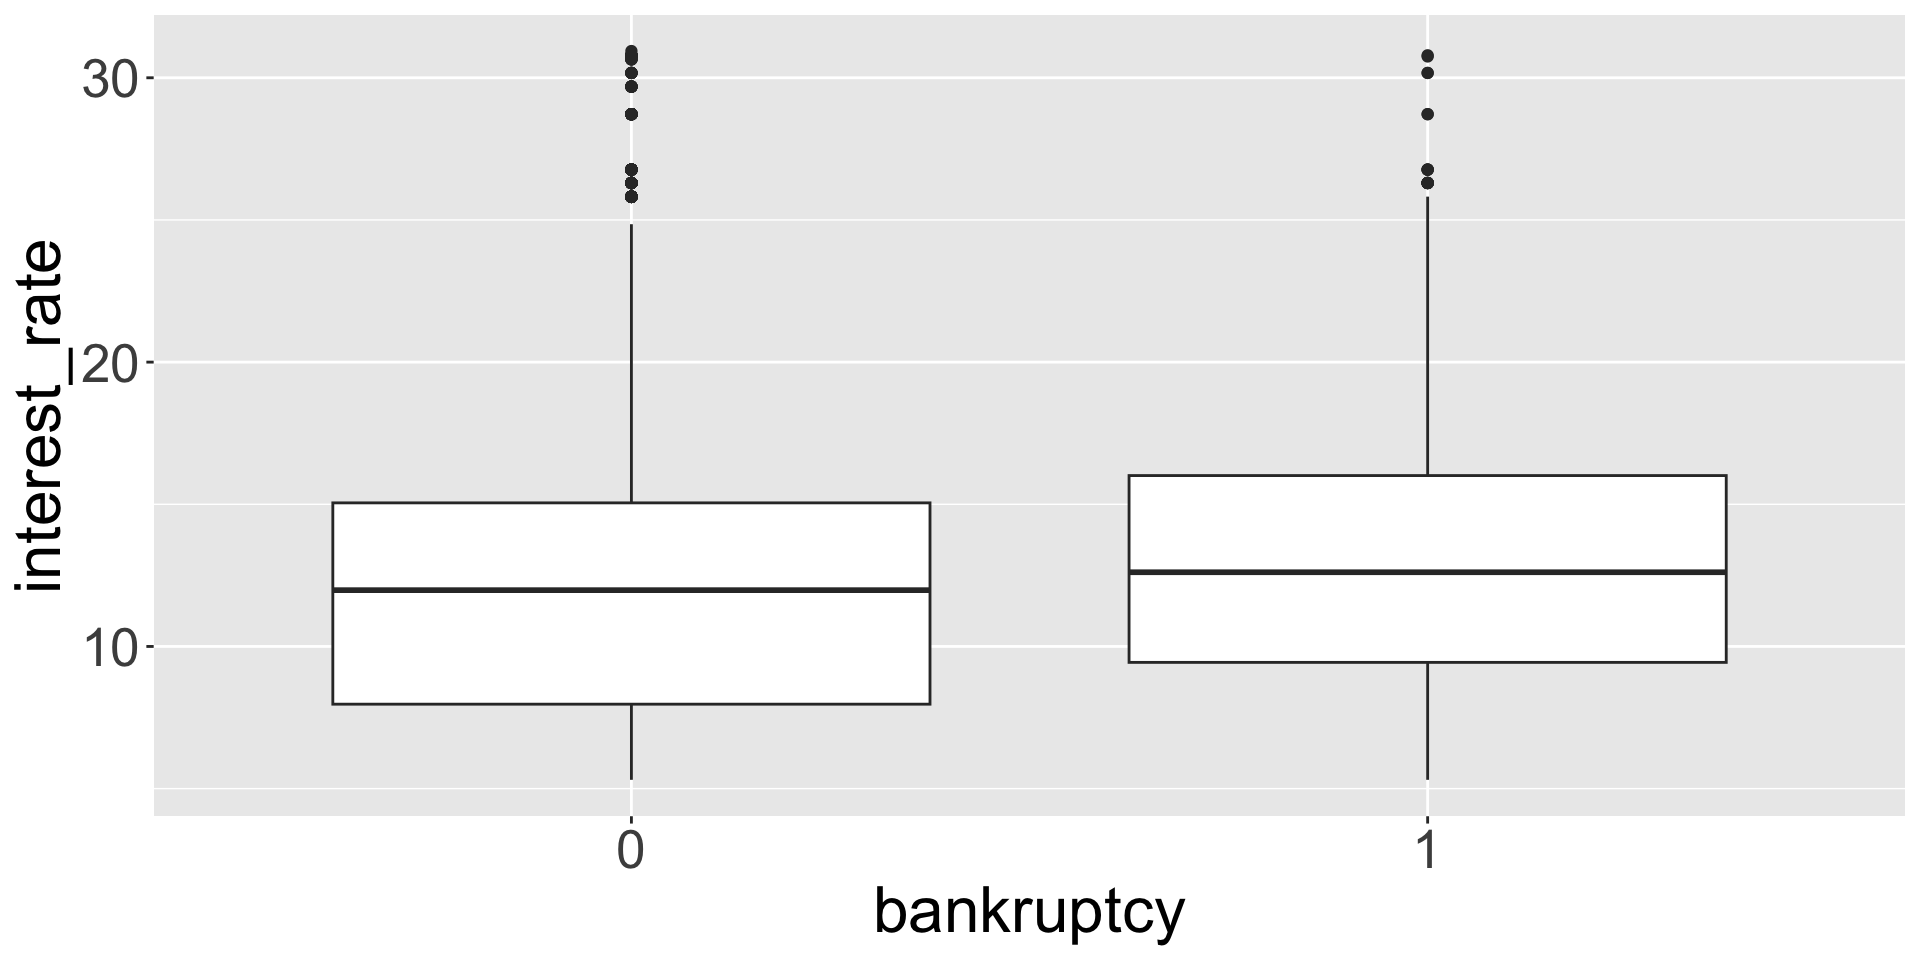
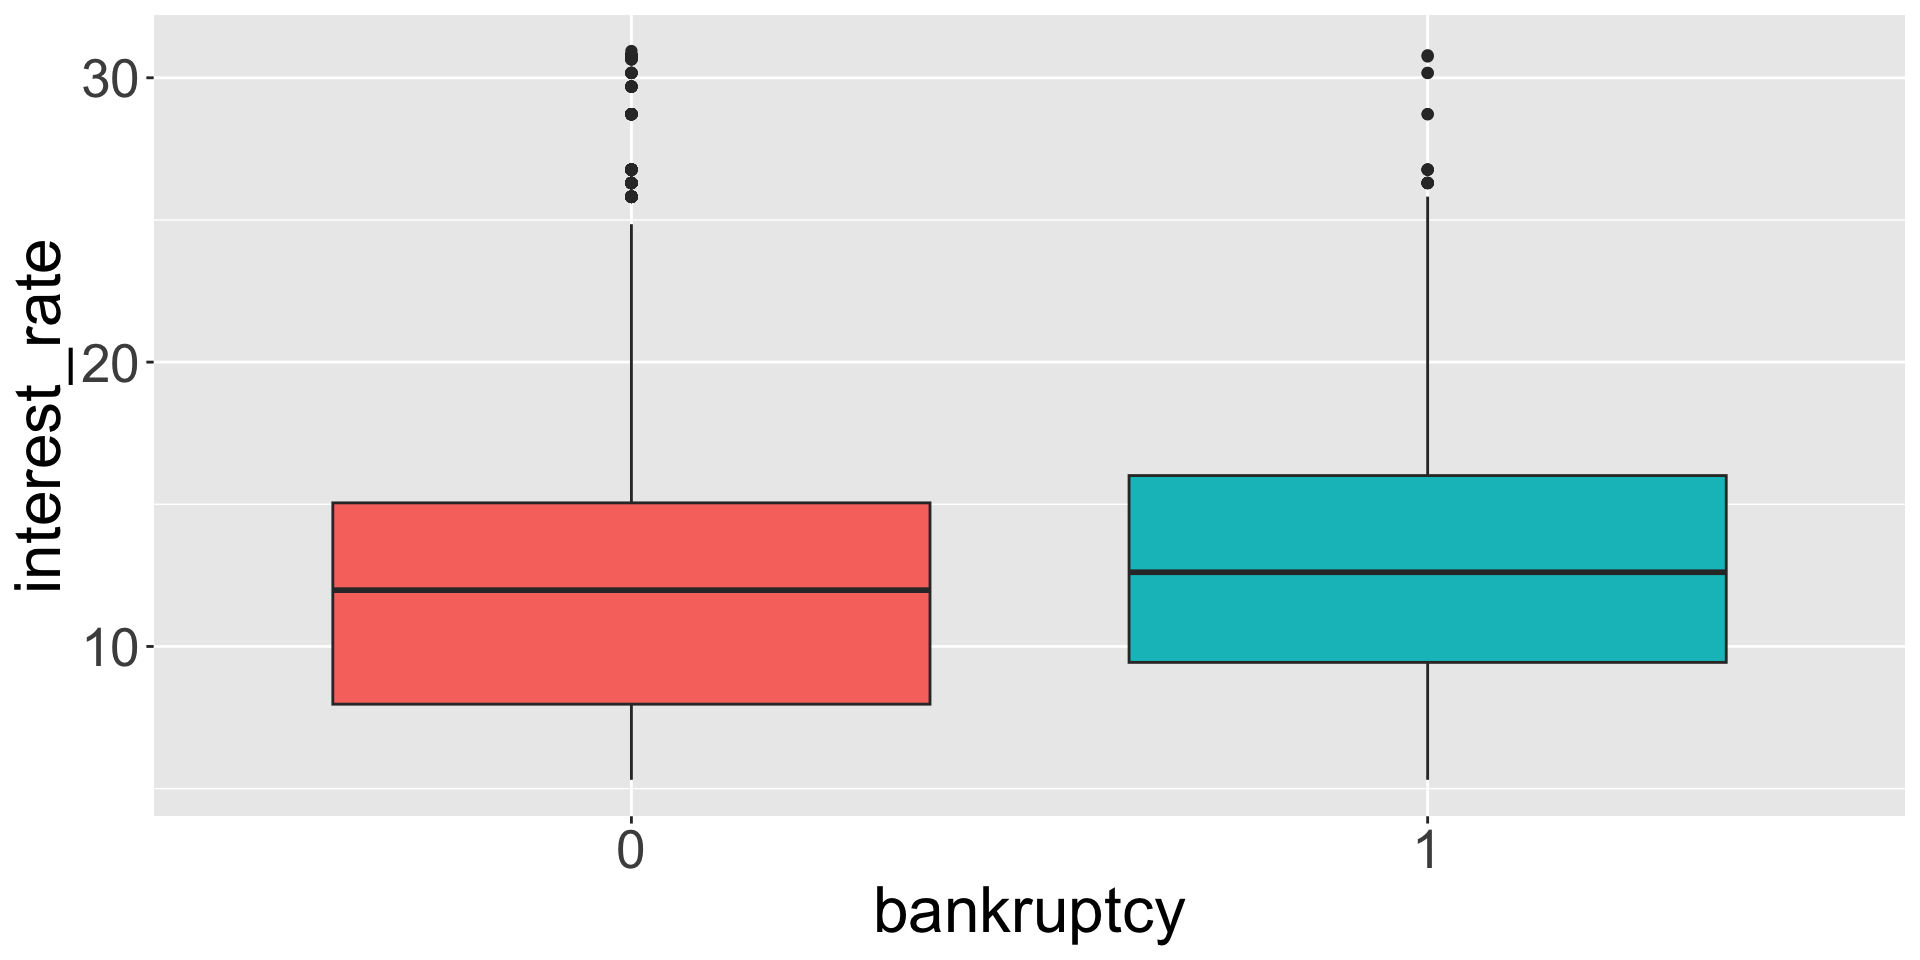
Add files via upload

Changed region(s): [[0.1562, 0.5, 0.5, 0.75], [0.5625, 0.5, 0.9062, 0.6875]]

diff --git a/teaching/STA35B/Lecture/lec12.html b/teaching/STA35B/Lecture/lec12.html
@@ -511,7 +511,11 @@ Figure&nbsp;1: A scatterplot showing head length against total length for 104 br
 <h2>Linear model</h2>
 <p>A <strong>linear model</strong> is a general framework that describes a linear relationship between a dependent variable and one or more independent variables.</p>
 <ul>
-<li>In statistics, usually call them the <strong>response</strong> variable and the <strong>predictor</strong> variable(s)</li>
+<li>In statistics, usually call them:
+<ul>
+<li>dependent variable <span class="math inline">\(\rightarrow\)</span> <strong>response</strong> variable</li>
+<li>independent variable(s) <span class="math inline">\(\rightarrow\)</span> <strong>predictor</strong> variable(s)</li>
+</ul></li>
 <li>For this slide deck, assume just one predictor variable</li>
 </ul>
 </section>
@@ -808,16 +812,17 @@ Figure&nbsp;2: Three datasets where a linear model may be useful even if the dat
 <ul>
 <li>Before we introduce <strong>correlation</strong>, let’s recall some basic summary statistics:</li>
 </ul>
-<p>Suppose we have a set of values <span class="math inline">\(a_1,a_2,\ldots,a_n\)</span> whose distribution we want to summarize using a few statistics.</p>
+<p>Suppose we want to summarize a set of values <span class="math inline">\(a_1,a_2,\ldots,a_n\)</span>.</p>
+<!-- whose distribution we want to summarize using a few statistics.  -->
 <!-- To quantify a "representative value" of a set of values $a_1,a_2,\ldots,a_n$ -->
 <div class="columns">
-<div class="column" style="width:45%;">
-<p>We can quantify a “representative value” using the <strong>sample mean</strong> <code>mean()</code>: <span class="math display">\[\bar{a} =  \frac{1}{n} \sum_{i=1}^n a_i.\]</span></p>
-</div><div class="column" style="width:55%;">
+<div class="column" style="width:50%;">
+<p>We can quantify a “representative value” using <strong>sample mean</strong> <code>mean()</code>: <span class="math display">\[\bar{a} =  \frac{1}{n} \sum_{i=1}^n a_i.\]</span></p>
+</div><div class="column" style="width:50%;">
 <p>We can quantify the “spread” using</p>
 <ul>
-<li>the <strong>sample variance</strong> <code>var()</code>: <span class="math display">\[s_a^2 =  \frac{1}{n-1} \sum_{i=1}^n (a_i - \bar{a})^2\]</span></li>
-<li>or the <strong>sample standard deviation</strong> <code>sd()</code>: <span class="math display">\[s_a = \sqrt{s_a^2}\]</span></li>
+<li><strong>sample variance</strong> <code>var()</code>: <span class="math display">\[s_a^2 =  \frac{1}{n-1} \sum_{i=1}^n (a_i - \bar{a})^2\]</span></li>
+<li>or <strong>sample standard deviation</strong> <code>sd()</code>: <span class="math display">\[s_a = \sqrt{s_a^2}\]</span></li>
 </ul>
 <!-- - $s_a$ has the same units as the values and the sample mean -->
 </div></div>
@@ -877,33 +882,49 @@ Figure&nbsp;2: Three datasets where a linear model may be useful even if the dat
 <ul>
 <li>Turns out to be equivalent to the squared value of the correlation</li>
 </ul>
-<p>Interpretation in <code>possum</code> example: About <span class="math inline">\(R^2 = 0.48\)</span> or <span class="math inline">\(48\%\)</span> of the variation in <code>head_l</code> is explained by the linear model.</p>
+<p>Interpretation for <code>possum</code>: <span class="math inline">\(R^2 = 0.48\)</span> or <span class="math inline">\(48\%\)</span> of the variation in <code>head_l</code> is explained by the linear model.</p>
 </section>
 <section id="categorical-predictors-with-two-levels" class="slide level2">
 <h2>Categorical predictors with two levels</h2>
 <!-- * Let's fit a linear regression model with the `bankruptcy` categorical predictor -->
-<p>Earlier we used continuous (numeric) predictor variables. Categorical variables are also useful in predicting outcomes.</p>
 <ul>
-<li>Consider a categorical predictor <code>bankruptcy</code> with two levels/categories: 0 if no history of bankruptcy, 1 if there is. <span class="math display">\[
-\widehat{\texttt{interest_rate}} = b_0 + b_1 \times \texttt{bankruptcy}
-\]</span></li>
-<li>A 0-1 variable is also called an <strong>indicator variable</strong>.</li>
+<li>So far we have used continuous (numeric) predictor variables.</li>
+<li>Categorical variables are also useful in predicting outcomes.</li>
 </ul>
 </section>
 <section id="categorical-predictors-with-two-levels-1" class="slide level2">
 <h2>Categorical predictors with two levels</h2>
-<p>Let’s see what the interest rates look like for the two levels</p>
-<div class="cell">
-<div class="sourceCode cell-code" id="cb17"><pre class="sourceCode numberSource r number-lines code-with-copy"><code class="sourceCode r"><span id="cb17-1"><a href=""></a>loans <span class="ot">&lt;-</span> loans_full_schema <span class="sc">|&gt;</span> </span>
-<span id="cb17-2"><a href=""></a>    <span class="fu">mutate</span>(<span class="at">bankruptcy =</span> <span class="fu">as.factor</span>(<span class="fu">if_else</span>(public_record_bankrupt <span class="sc">==</span> <span class="dv">0</span>, <span class="dv">0</span>, <span class="dv">1</span>)))</span>
-<span id="cb17-3"><a href=""></a><span class="fu">ggplot</span>(loans, <span class="fu">aes</span>(bankruptcy, interest_rate)) <span class="sc">+</span> <span class="fu">geom_boxplot</span>()</span></code><button title="Copy to Clipboard" class="code-copy-button"><i class="bi"></i></button></pre></div>
-
-</div>
-<img data-src="lec12_files/figure-revealjs/unnamed-chunk-13-1.png" width="960" class="r-stretch"><ul>
-<li>Seems plausible that bankruptcy is associated with a higher interest rate</li>
+<p>Example: Predict the interest rate for someone based on whether that person has filed for bankruptcy. (Data from <code>openintro::loans_full_schema</code>.)</p>
+<p><span class="math display">\[
+\widehat{\texttt{interest_rate}} = b_0 + b_1 \times \texttt{bankruptcy}
+\]</span></p>
+<ul>
+<li>A categorical predictor <code>bankruptcy</code> with two levels/categories:
+<ul>
+<li>0 if no history of bankruptcy, 1 if there is.</li>
+<li>A 0-1 variable is also called an <strong>indicator variable</strong>.</li>
+</ul></li>
+<li>Interpretation:
+<ul>
+<li><span class="math inline">\(b_0\)</span> is the predicted interest rate for those w/o bankruptcy</li>
+<li><span class="math inline">\(b_0 + b_1\)</span> is the predicted interest rate for those w bankruptcy</li>
+</ul></li>
 </ul>
 </section>
 <section id="categorical-predictors-with-two-levels-2" class="slide level2">
+<h2>Categorical predictors with two levels</h2>
+<p>Let’s see what the interest rates look like for the two levels</p>
+<div class="cell" data-layout-align="center">
+<div class="sourceCode cell-code" id="cb17"><pre class="sourceCode numberSource r number-lines code-with-copy"><code class="sourceCode r"><span id="cb17-1"><a href=""></a>loans <span class="ot">&lt;-</span> loans_full_schema <span class="sc">|&gt;</span> </span>
+<span id="cb17-2"><a href=""></a>    <span class="fu">mutate</span>(<span class="at">bankruptcy =</span> <span class="fu">as.factor</span>(<span class="fu">if_else</span>(public_record_bankrupt <span class="sc">==</span> <span class="dv">0</span>, <span class="dv">0</span>, <span class="dv">1</span>)))</span>
+<span id="cb17-3"><a href=""></a><span class="fu">ggplot</span>(loans, <span class="fu">aes</span>(bankruptcy, interest_rate)) <span class="sc">+</span> <span class="fu">geom_boxplot</span>(<span class="fu">aes</span>(<span class="at">fill=</span>bankruptcy)) <span class="sc">+</span> <span class="fu">theme</span>(<span class="at">legend.position =</span> <span class="st">"none"</span>)</span></code><button title="Copy to Clipboard" class="code-copy-button"><i class="bi"></i></button></pre></div>
+
+</div>
+<img data-src="lec12_files/figure-revealjs/unnamed-chunk-13-1.png" class="quarto-figure quarto-figure-center r-stretch" width="960"><ul>
+<li>Seems plausible that bankruptcy is associated with a higher interest rate</li>
+</ul>
+</section>
+<section id="categorical-predictors-with-two-levels-3" class="slide level2">
 <h2>Categorical predictors with two levels</h2>
 <p>Let’s inspect the least-squares linear model resulting from this</p>
 <div class="cell">
